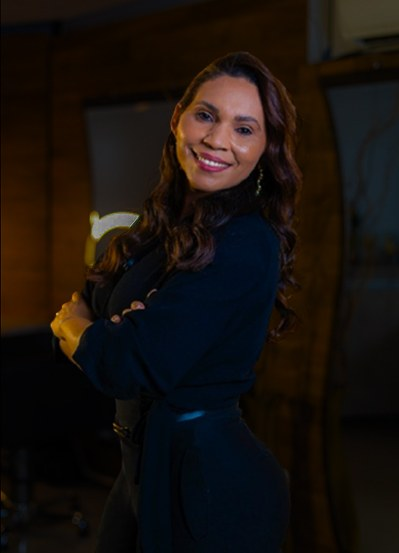
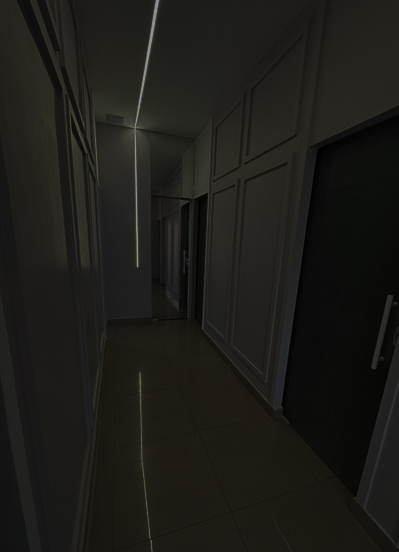
tudo finalizado

diff --git a/index.html b/index.html
@@ -50,7 +50,7 @@
           <h1 id="titulo1s1">Donna Self Care</h1>
           <h2 id="subtitulo1s1">Desing de Sombrancelhas</h2>
           <h2 id="subtitulo3s1">TERAPEUTA CAPILAR</h2>
-          <p id="subtitulo4s1">Cabelos,Unhas,Sombrancelhas,Depilação,Tudo.Te transformaremos da cabeça aos pés, e o seu cabelo na sua maior coroa. Se você busca o cuidado de uma especialista para, finalmente,ser sua melhor versão, sua jornada começa aqui. Confie em quem constrói belezas duradouras.</p>
+          <p id="subtitulo4s1">Cabelos,Unhas,Sombrancelhas,Depilação,Tudo. <br> Te transformaremos da cabeça aos pés, e o seu cabelo na sua maior coroa. Se você busca o cuidado de uma especialista para, finalmente,ser sua melhor versão, sua jornada começa aqui. Confie em quem constrói belezas duradouras.</p>
         </div>
         <div class="texto-rotativo">
           <div class="scroll-indicator" id="scroll-indicator-s1">
@@ -79,28 +79,28 @@
           <div class="slider role="region aria-label="Galeria de Trabalhos">
             <div class="slides">
               <div class="slide active">
-                <img src="todos os arquivos do site/carrosel/antes e depois cachos.jpg" alt="Abertura de cachos">
+                <img src="todos os arquivos do site/carrosel/fotosombrancelha.jpg" alt="Abertura de cachos">
               </div>
               <div class="slide">
-                <img src="todos os arquivos do site/carrosel/abertura de cachos.jpg" alt="Antes e depois cachos">
+                <img src="todos os arquivos do site/carrosel/cabelo1.jpg" alt="Antes e depois cachos">
               </div>
               <div class="slide">
-                <img src="todos os arquivos do site/carrosel/antes.jpg" alt="Antes">
+                <img src="todos os arquivos do site/carrosel/Unha1.jpg" alt="Antes">
               </div>
               <div class="slide">
-                <img src="todos os arquivos do site/carrosel/depois.jpg" alt="Depois">
+                <img src="todos os arquivos do site/carrosel/cabelo3.jpg" alt="Depois">
               </div>
               <div class="slide">
-                <img src="todos os arquivos do site/carrosel/pré baby liss.jpg" alt="Transformação 1">
+                <img src="todos os arquivos do site/carrosel/Unha2.jpg" alt="Transformação 1">
               </div>
               <div class="slide">
-                <img src="todos os arquivos do site/carrosel/pos baby liss.jpg" alt="Transformação 2">
+                <img src="todos os arquivos do site/carrosel/cabelo2.jpg" alt="Transformação 2">
               </div>
               <div class="slide">
-                <img src="todos os arquivos do site/carrosel/image 3.jpg" alt="Pós Baby Liss">
+                <img src="todos os arquivos do site/carrosel/cabelo4.jpg" alt="Pós Baby Liss">
               </div>
               <div class="slide">
-                <img src="todos os arquivos do site/carrosel/image 9.jpg" alt="Pré Baby Liss">
+                <img src="todos os arquivos do site/" alt="Pré Baby Liss">
               </div>
             </div>
             <div class="dots"></div>
@@ -108,7 +108,7 @@
       </div>
         </div>
         <div id="buttoninstagram">
-            <a href="https://www.instagram.com/fabianareis_studiodebeleza?utm_source=ig_web_button_share_sheet&igsh=ZDNlZDc0MzIxNw==" class="buttonlinkmiddle" id="buttoninstagram2" target="_blank">
+            <a href="https://www.instagram.com/donnaesteticaselfcare/" class="buttonlinkmiddle" id="buttoninstagram2" target="_blank">
               <span>Veja mais!</span>
                 <div id="instalogo">
                   <img src="todos os arquivos do site/icones figma/iconeinstasleve.png" alt="icone de toque na tela">
@@ -117,19 +117,6 @@
         </div>
         <div class="faixa">
           <div class="faixa__conteudo">
-            <ul>
-              <li><img src="todos os arquivos do site/icones figma/crown.svg" alt="">CONFIANÇA</li>
-              <li><img src="todos os arquivos do site/icones figma/womanfaixa.svg" alt="">ESTILO</li>
-              <li><img src="todos os arquivos do site/icones figma/batomespelho.svg" alt="">BELEZA</li>
-              <li><img src="todos os arquivos do site/icones figma/coracao.svg" alt="">CUIDADO</li>
-            </ul>
-            <!-- Duplicado para loop -->
-            <ul aria-hidden="true">
-              <li><img src="todos os arquivos do site/icones figma/crown.svg" alt="">CONFIANÇA</li>
-              <li><img src="todos os arquivos do site/icones figma/womanfaixa.svg" alt="">ESTILO</li>
-              <li><img src="todos os arquivos do site/icones figma/batomespelho.svg" alt="">BELEZA</li>
-              <li><img src="todos os arquivos do site/icones figma/coracao.svg" alt="">CUIDADO</li>
-            </ul>
           </div>
         </div>
         <div class="texto-rotativo">
@@ -157,11 +144,11 @@
             <div id="textossection3">
               <h1 id="titulo1s3">Mais que um Salão, <br> Um verdadeiro spa</h1>
               <h2 id="subtitulo1s3">Onde a beleza encontra <br> o relaxamento</h2>
-              <a href="https://maps.app.goo.gl/NZTq6YFX1Sj63vdSA" target="_blank"><img src="todos os arquivos do site/icones figma/localização.svg" alt="icone de mapa" id="localizacao1s3"></a>
+              <a href="https://maps.app.goo.gl/TDPF7QCbAo6Digpo9" target="_blank"><img src="todos os arquivos do site/icones figma/localização.svg" alt="icone de mapa" id="localizacao1s3"></a>
               <address id="subtitulo2s3"> St. Hab. Vicente Pires, Brasília, 72007-395 <br> Rua 05, Chácara 179, Loja 05 </address>
             </div>
             <div id="botaolocalizacao">
-              <a href="https://maps.app.goo.gl/PigQRM2n8Sg3hPKM6" class="buttonlinkmiddle" target="_blank">
+              <a href="https://maps.app.goo.gl/TDPF7QCbAo6Digpo9" class="buttonlinkmiddle" target="_blank">
                 <span>Localização!</span>
                   <div>
                     <img src="todos os arquivos do site/icones figma/touch-svgrepo-com 1.svg" alt="icone de toque na tela">
@@ -245,7 +232,7 @@
     <div class="review-dots" aria-hidden="false"></div>
 </div>
           <div id="buttonzap">
-              <a href="https://api.whatsapp.com/send?phone=5561993398371" class="buttonlinkmiddle"target="_blank">
+              <a href="https://api.whatsapp.com/send/?phone=556132070435&text&type=phone_number&app_absent=0" class="buttonlinkmiddle"target="_blank">
                 <span>Agende agora!</span>
                   <div id="backgroundzap">
                     <img src="todos os arquivos do site/icones figma/whatsapp-svgrepo-com 1.svg" alt="icone zap">

diff --git a/todos os arquivos do site/style.css b/todos os arquivos do site/style.css
@@ -99,7 +99,7 @@ header{
 
 #section3{
     height: 100dvh;
-    background-image: url(backgroundfigma/backgrounds3.webp);
+    background-image: url(backgroundfigma/backgrounds3.jpg);
     background-position: center;
     background-size: cover;
     display: flex;
@@ -251,6 +251,10 @@ header{
 /* ========================== */
 /* === SLIDER INSTAGRAM ==== */
 /* ========================== */
+.conteiner-instagram{
+  width: 290px;
+  height: 200px;
+}
 .conteiner-insta {
     position: absolute; /* Ocupa todo o espaço do contêiner pai */
     top: 0;
@@ -584,7 +588,7 @@ header{
 
 
 #scroll-indicator-s1 { 
-    background-color: rgb(1, 26, 53,0.63); /* Usando a nova cor #4b89cf */
+    background-color: rgba(0, 0, 0, 0.63); /* Usando a nova cor #4b89cf */
 }
 #scroll-indicator-s2 {
     background-color: #79345E; /* Cor da Seção 3 */
